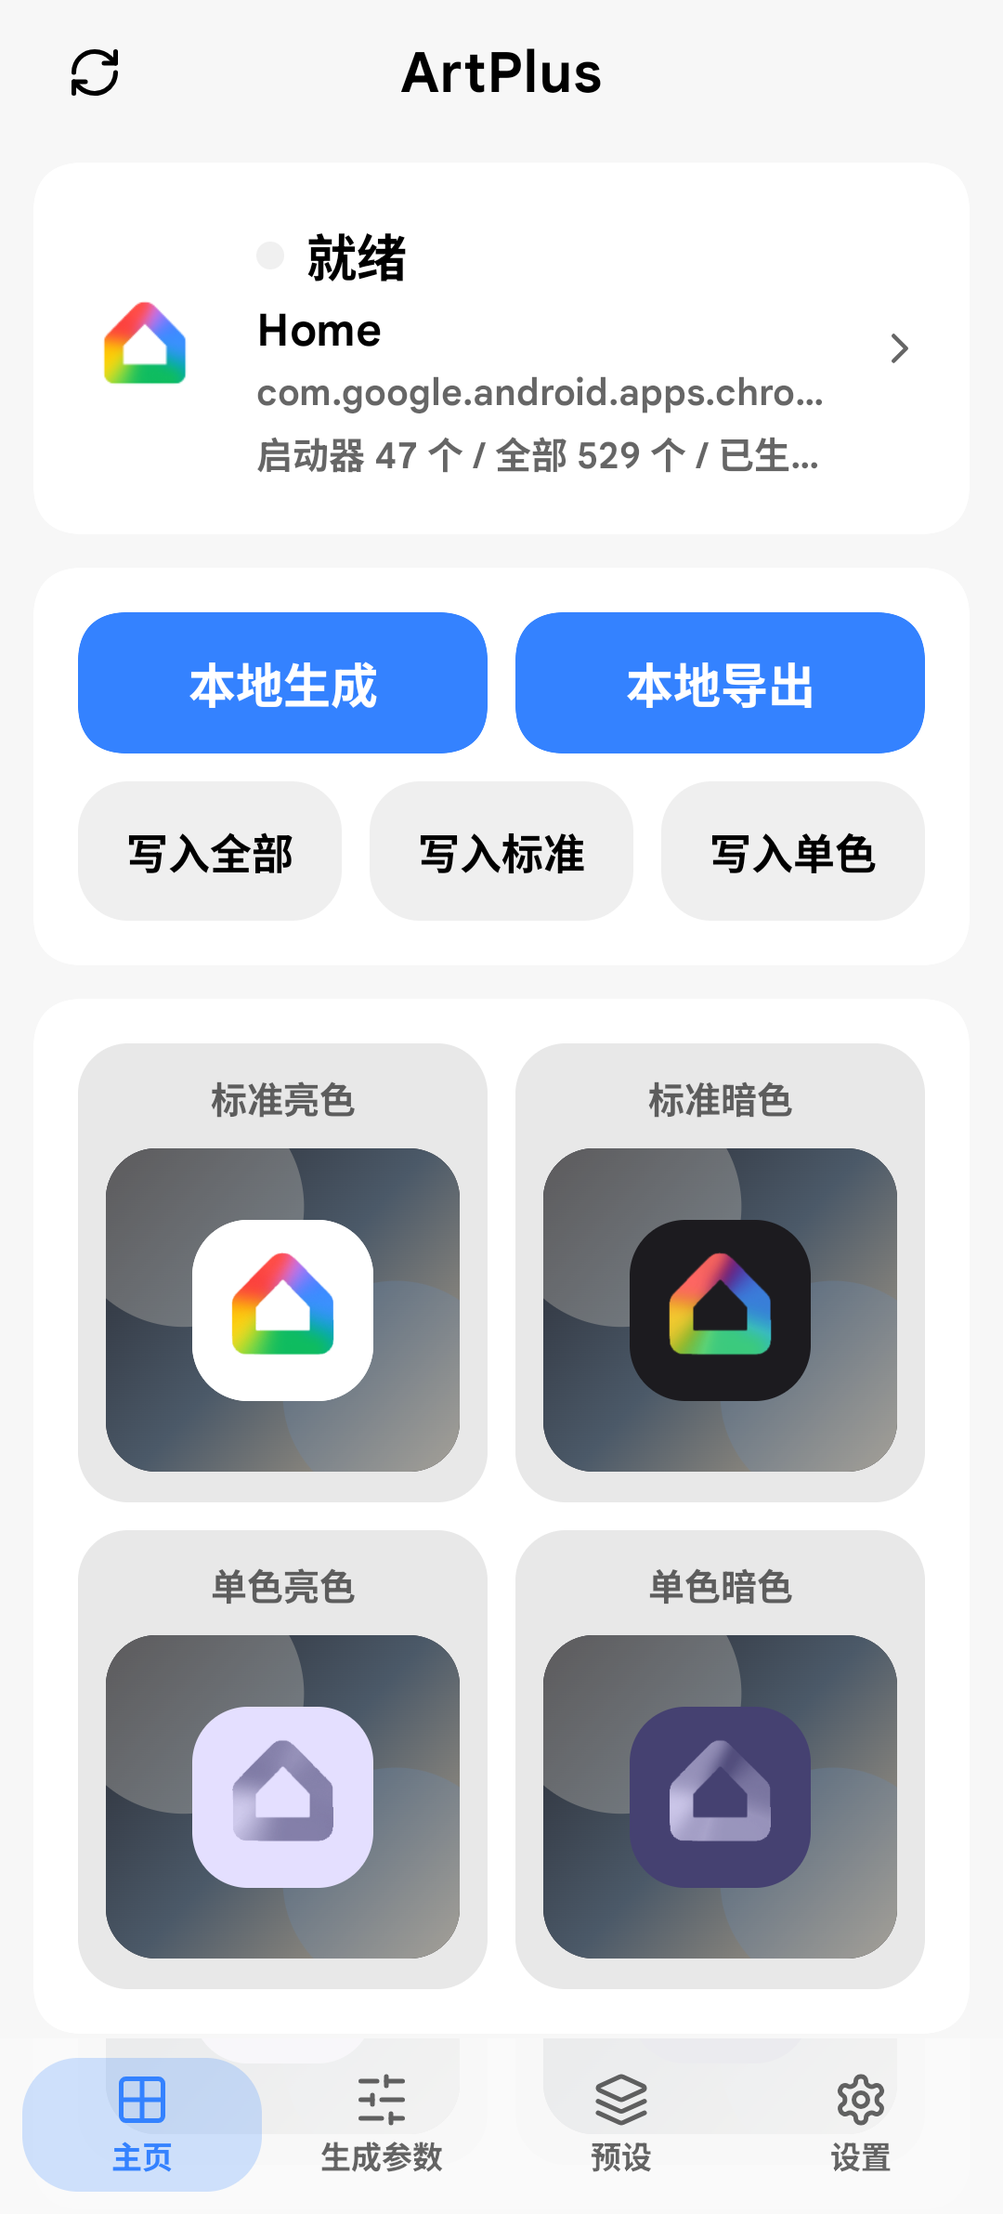
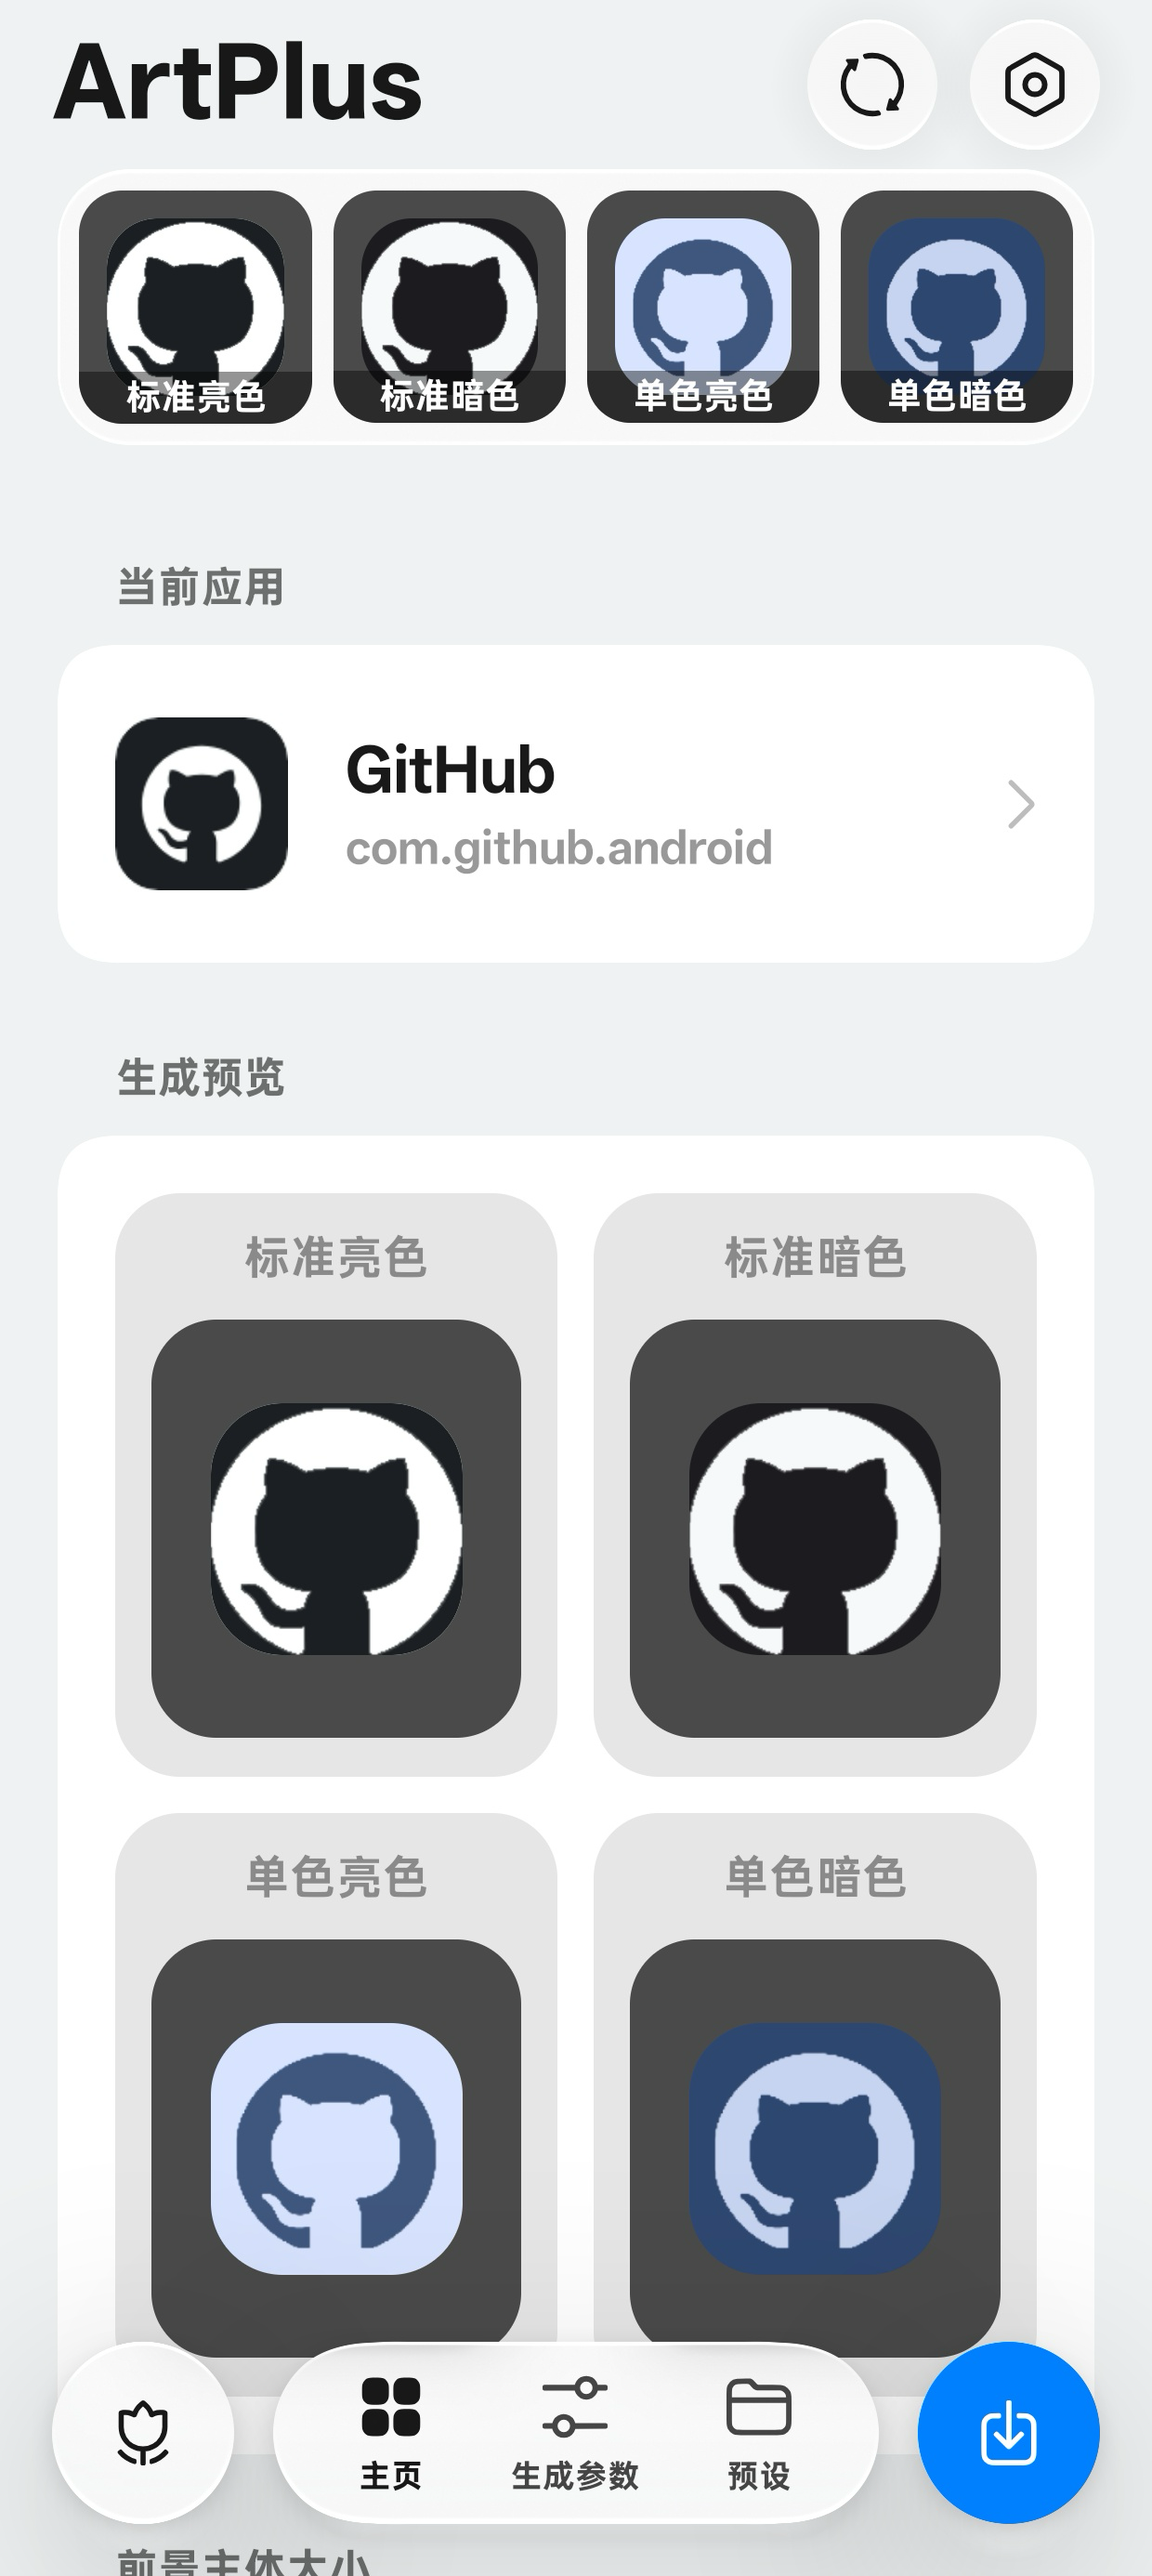
docs: 更新新版UI预览截图与框架说明

diff --git a/README.md b/README.md
@@ -9,7 +9,7 @@
 [![Android](https://img.shields.io/badge/Android-12%2B-3DDC84?style=flat-square&logo=android&logoColor=white)](https://developer.android.com)
 [![Kotlin](https://img.shields.io/badge/Kotlin-2.0-7F52FF?style=flat-square&logo=kotlin&logoColor=white)](https://kotlinlang.org)
 [![Compose](https://img.shields.io/badge/Jetpack-Compose-4285F4?style=flat-square&logo=jetpackcompose&logoColor=white)](https://developer.android.com/jetpack/compose)
-[![UI Framework](https://img.shields.io/badge/UI-MIUIX%20Compose-FF6900?style=flat-square)](https://github.com)
+[![UI Framework](https://img.shields.io/badge/UI-COUI%20Compose-00C06D?style=flat-square)](https://github.com)
 [![License](https://img.shields.io/badge/License-GPLv3-blue?style=flat-square)](LICENSE)
 
 <p><b>English</b> | <a href="README.zh-CN.md">简体中文</a></p>
@@ -26,7 +26,7 @@ ColorOS ART+ (OPPO / OnePlus / realme) ships a distinctive layered icon style, b
 2. Split and rebuild it into foreground / background / night / monochrome layers with tunable algorithms,
 3. Live-preview all variants, then write the result straight into the system ART+ directory (root) or export it as a shareable preset.
 
-Designed for ColorOS 15+ theming workflows, built with Kotlin + Jetpack Compose (MIUIX Compose).
+Designed for ColorOS 15+ theming workflows, built with Kotlin + Jetpack Compose (COUI Compose).
 
 ---
 
@@ -38,17 +38,17 @@ Designed for ColorOS 15+ theming workflows, built with Kotlin + Jetpack Compose 
     <td align="center" width="33%">
       <img src="docs/assets/preview_home.png" width="260" alt="Home and polymorphic preview" /><br />
       <b>Home & Polymorphic Preview</b><br />
-      <sub>Standard light/dark and monochrome light/dark</sub>
+      <sub>Floating 1×4 preview strip & polymorphic cards</sub>
     </td>
     <td align="center" width="33%">
       <img src="docs/assets/preview_params.png" width="260" alt="Tuning parameters" /><br />
       <b>Tuning Parameters</b><br />
-      <sub>Stable rule-based tuning with top preview strip</sub>
+      <sub>Segmented algorithm tuning with sticky preview strip</sub>
     </td>
     <td align="center" width="33%">
       <img src="docs/assets/preview_preset.png" width="260" alt="Preset snapshot management" /><br />
       <b>Preset Snapshots</b><br />
-      <sub>Feature tags with import/export</sub>
+      <sub>Card-style preset library with batch preview</sub>
     </td>
   </tr>
 </table>
@@ -92,10 +92,10 @@ ArtPlus deconstructs a regular app icon and rebuilds it into a ColorOS ART+ comp
 
 ## Key Features
 
-- **App discovery**: scan installed apps, separate launcher apps from background components, jump to the target app in one tap.
+- **App discovery**: scan installed apps, filter AM-modified packages, separate launcher apps from background components, jump to the target app in one tap.
 - **Smart layer separation**: on-device pipeline with background cleanup, foreground edge refinement, wordmark preservation, and monochrome generation.
-- **Live full-state preview**: render standard light/dark, monochrome light/dark, and the 1×4 top strip in real time.
-- **Preset snapshot library**: feature tags, tuning snapshots, per-item copy, and one-tap clipboard export/import.
+- **Live full-state preview**: render standard light/dark, monochrome light/dark across full-size cards and sticky 1×4 floating liquid-glass strip in real time.
+- **Preset snapshot library**: notification-style preset cards, active indicator, tuning snapshots, batch preview testing, and one-tap clipboard export/import.
 - **Root fast write**: one-tap write into the system ART+ directory (`/data/oplus/uxicons/`), guarded by a double-confirm dialog with automatic launcher refresh.
 - **Optional AI extension**: plug in an online image API to explore future-style icon candidates.
 

diff --git a/README.zh-CN.md b/README.zh-CN.md
@@ -9,7 +9,7 @@
 [![Android](https://img.shields.io/badge/Android-12%2B-3DDC84?style=flat-square&logo=android&logoColor=white)](https://developer.android.com)
 [![Kotlin](https://img.shields.io/badge/Kotlin-2.0-7F52FF?style=flat-square&logo=kotlin&logoColor=white)](https://kotlinlang.org)
 [![Compose](https://img.shields.io/badge/Jetpack-Compose-4285F4?style=flat-square&logo=jetpackcompose&logoColor=white)](https://developer.android.com/jetpack/compose)
-[![UI Framework](https://img.shields.io/badge/UI-MIUIX%20Compose-FF6900?style=flat-square)](https://github.com)
+[![UI Framework](https://img.shields.io/badge/UI-COUI%20Compose-00C06D?style=flat-square)](https://github.com)
 [![License](https://img.shields.io/badge/License-GPLv3-blue?style=flat-square)](LICENSE)
 
 <p><a href="README.md">English</a> | <b>简体中文</b></p>
@@ -26,17 +26,17 @@
     <td align="center" width="33%">
       <img src="docs/assets/preview_home.png" width="260" alt="主页与多态预览" /><br />
       <b>主页与多态预览</b><br />
-      <sub>标准亮色/暗色与单色亮色/暗色</sub>
+      <sub>独立毛玻璃 1×4 预览条与多态卡片</sub>
     </td>
     <td align="center" width="33%">
       <img src="docs/assets/preview_params.png" width="260" alt="生成参数调节" /><br />
       <b>生成参数调节</b><br />
-      <sub>稳定规则调参与顶部预览条</sub>
+      <sub>规则/算法分段调参与常驻预览浮层</sub>
     </td>
     <td align="center" width="33%">
       <img src="docs/assets/preview_preset.png" width="260" alt="预设快照管理" /><br />
       <b>预设快照管理</b><br />
-      <sub>特性标签与导入导出生态</sub>
+      <sub>通知式卡片预设与批量预览测试</sub>
     </td>
   </tr>
 </table>
@@ -80,10 +80,10 @@ ArtPlus 自动将第三方应用普通图标解构并标准化生成 ColorOS ART
 
 ## ✨ 主要功能
 
-- **📲 应用检索与读取**：快速读取已安装应用列表，区分启动器应用与后台组件，支持一键定位目标 App。
+- **📲 应用检索与读取**：快速读取已安装应用列表，区分启动器应用与后台组件，支持 AM 专属图标筛选与一键定位目标 App。
 - **🧩 智能图层分离**：支持本地分层算法，具备智能背景清理、前景修整边缘平滑、字标保全与单色图标生成。
-- **👁 全态实时预览**：在手机端无缝实时渲染标准亮色、标准暗色、单色亮色、单色暗色以及 1×4 顶部条状态。
-- **🧪 预设快照库**：支持预设特征标签、调参快照保存、单条配置复制与系统剪贴板一键导出/导入。
+- **👁 全态实时预览**：独立毛玻璃 1×4 顶部条与大卡片联动，实时无缝渲染标准亮色、标准暗色、单色亮色与单色暗色多态效果。
+- **🧪 预设快照库**：通知式卡片预设管理，直观展示套用状态，支持批量预览测试与系统剪贴板一键导出/导入。
 - **⚡ Root 极速写入**：支持一键直写系统 ART+ 目录（`/data/oplus/uxicons/`），配备防误触二次确认与自动刷新桌面机制。
 - **🤖 可选 AI 扩展**：支持接入在线图像生成与处理接口，探索未来感图标候选设计。
 
